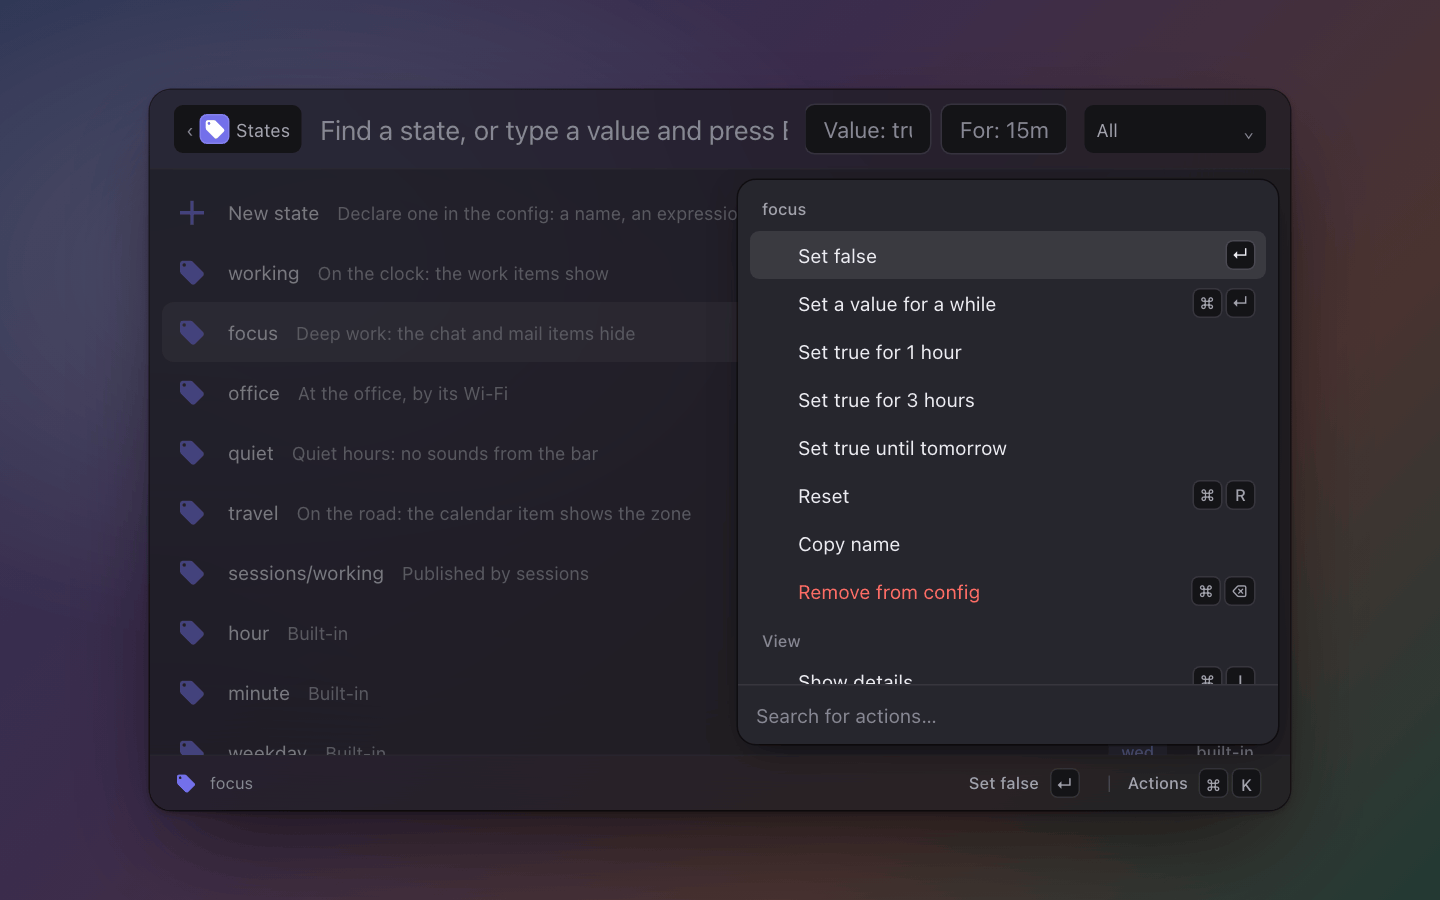
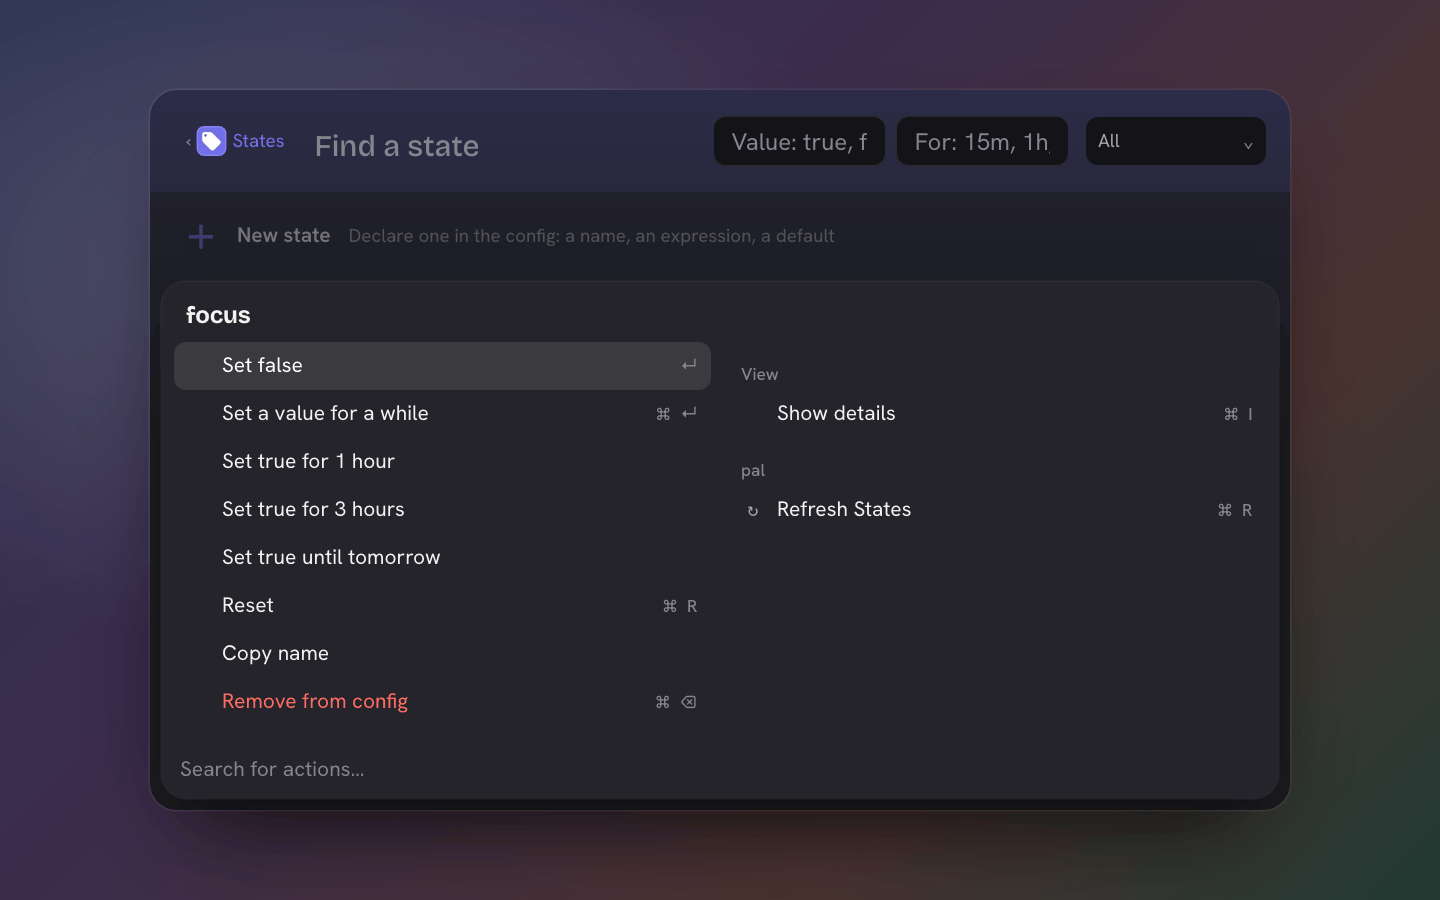
states: a row's glyph says which layer answers (held, expression, extension, built-in, default, a red alert on an error), so the accessories are the value and the hold alone; the placeholder is Find a state

diff --git a/states/index.ts b/states/index.ts
@@ -4,8 +4,12 @@
 // the table.
 import { argsForm, failed, hint, now as clock, parseDuration, state, toast, type Accessory, type Action, type Arg, type BarItem, type Effect, type Extension, type Item, type StateEntry, type StateValue } from "@zcag/pal";
 
-const GLYPH = "\u{f04f9}"; //  nf-md-variable
+const GLYPH = "\u{f04f9}"; //  nf-md-tag, the extension's and the bar item's
 const PLUS = "\u{f0415}";
+/** A row's glyph says which layer answers: held by hand, its expression, an extension, built in, the default; a failed expression is red. */
+const LAYER = { manual: "\u{f0e47}", expr: "\u{f0871}", published: "\u{f0431}", builtin: "\u{f0493}", default: "\u{f0ae7}", error: "\u{f0028}" }; // md-hand_back_right, function_variant, puzzle, cog, variable, alert_circle
+const layerIcon = (e: StateEntry): Item["icon"] =>
+  e.error ? { glyph: LAYER.error, color: "red" } : e.source === "manual" ? { glyph: LAYER.manual, color: "amber" } : e.builtin ? LAYER.builtin : typeof e.source === "object" ? LAYER.published : e.source === "expr" ? LAYER.expr : LAYER.default;
 const NEW = "new";
 
 const NEW_ARGS: Arg[] = [
@@ -42,7 +46,8 @@ const valueTag = (v: StateValue): Accessory => v === null ? { tag: "unknown", co
 function row(e: StateEntry, now: number): Item {
   const manual = e.source === "manual";
   const subtitle = e.error ? `Error: ${e.error}` : e.description ?? (e.expr ? `= ${e.expr}` : e.builtin ? "Built-in" : manual ? "Set by hand" : `Published by ${sourceText(e)}`);
-  const accessories: Accessory[] = [valueTag(e.value), { tag: manual ? (e.until ? `held · ${left(e.until - now)}` : "held") : sourceText(e), color: manual ? "amber" : e.error ? "red" : "muted" }];
+  // The value, and the hold with its time left; the glyph says the other layers, the line under the name who publishes.
+  const accessories: Accessory[] = [valueTag(e.value), ...(manual ? [{ tag: e.until ? `held · ${left(e.until - now)}` : "held", color: "amber" }] : [])];
   const boolean = typeof e.value === "boolean" || e.value === null;
   // Every action but the typed value also takes marked states (`multi`); Set true/false sets them all to what the addressed row would become.
   const actions: Action[] = e.builtin
@@ -57,7 +62,7 @@ function row(e: StateEntry, now: number): Item {
         { id: "copy", title: "Copy name", multi: true },
         ...(e.declared ? [{ id: "undeclare", title: "Remove from config", shortcut: "cmd+backspace", style: "destructive" as const, multi: true as const, confirm: "Remove its [states] entry from the config file?" }] : []),
       ];
-  return { id: e.name, name: e.name, subtitle, icon: GLYPH, keywords: ["state", e.name, sourceText(e)], accessories, args: SET_ARGS, actions };
+  return { id: e.name, name: e.name, subtitle, icon: layerIcon(e), keywords: ["state", e.name, sourceText(e)], accessories, args: SET_ARGS, actions };
 }
 
 const newRow: Item = { id: NEW, name: "New state", subtitle: "Declare one in the config: a name, an expression, a default", icon: PLUS, keywords: ["state", "new", "declare", "variable"], args: NEW_ARGS, actions: [{ id: "declare", title: "Declare", args: true }] };
@@ -135,7 +140,7 @@ export default {
     states: {
       title: "States",
       live: true,
-      placeholder: "Find a state, or type a value and press Enter on one",
+      placeholder: "Find a state",
       filters: [{ id: "all", title: "All" }, { id: "held", title: "Held by hand" }, { id: "mine", title: "Mine" }, { id: "ext", title: "From extensions" }, { id: "builtin", title: "Built-in" }],
       list,
       pick,

diff --git a/test/states.test.ts b/test/states.test.ts
@@ -60,9 +60,10 @@ describe("over the wire", () => {
     const r = await rows();
     expect(r[0].id).toBe("new");
     expect(r.map((x) => x.id)).toEqual(["new", "hour", "working", "deep", "sessions/working"]);
-    expect(byId(r, "working").accessories).toEqual([{ tag: "false", color: "muted" }, { tag: "expr", color: "muted" }]);
+    // The value alone beside an expression's row; its glyph says the layer.
+    expect(byId(r, "working")).toMatchObject({ accessories: [{ tag: "false", color: "muted" }], icon: "\u{f0871}" });
     expect(byId(r, "working").subtitle).toBe("On the clock");
-    expect(byId(r, "hour").accessories).toEqual([{ tag: "10", color: "blue" }, { tag: "built-in", color: "muted" }]);
+    expect(byId(r, "hour")).toMatchObject({ accessories: [{ tag: "10", color: "blue" }], icon: "\u{f0493}" });
     expect(byId(r, "hour").actions?.map((a) => a.id)).toEqual(["copy"]); // a built-in is only copied
     expect(byId(r, "sessions/working").subtitle).toBe("Published by sessions");
     expect(byId(r, "deep").actions?.map((a) => a.id)).toEqual(["toggle", "set", "hold-1h", "hold-3h", "hold-tomorrow", "copy", "undeclare"]);

diff --git a/states/fixture.ts b/states/fixture.ts
@@ -44,7 +44,7 @@ try {
     palettes: { states: palette },
     effects: { "states/new": { form } },
     shots: {
-      "1-list": { palette: "states", keys: [], caption: "Every state with its value and which layer answers: its expression, set by hand with the time left, a publisher, built-in" },
+      "1-list": { palette: "states", keys: [], caption: "Every state with its value; the glyph says which layer answers (its expression, held by hand with the time left, an extension, built in)" },
       "2-held": { palette: "states", keys: ["tab"], caption: "Tab steps through the filters: held by hand, yours, what extensions publish, the built-ins" },
       "3-actions": { palette: "states", keys: ["down*2", "cmd+k"], caption: "Set a state for an hour, three, until tomorrow or a value typed, reset it, or remove it from the config" },
       "4-new": { palette: "states", keys: ["enter", "type:meeting", "tab", "type:hour >= 15 and hour < 16"], caption: "New state writes [states.<name>] to the config: a name, an expression over the others, a default" },
